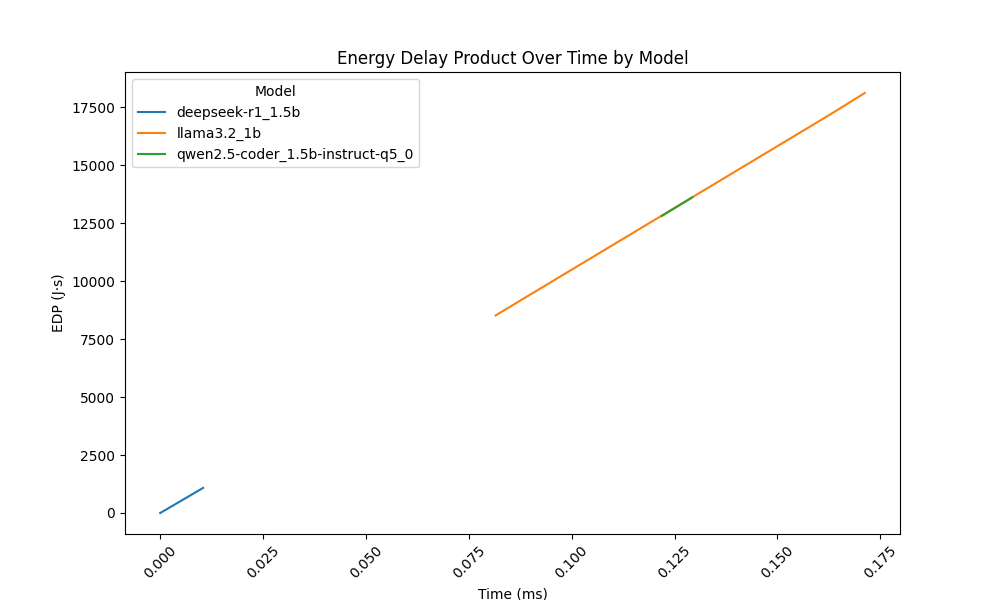
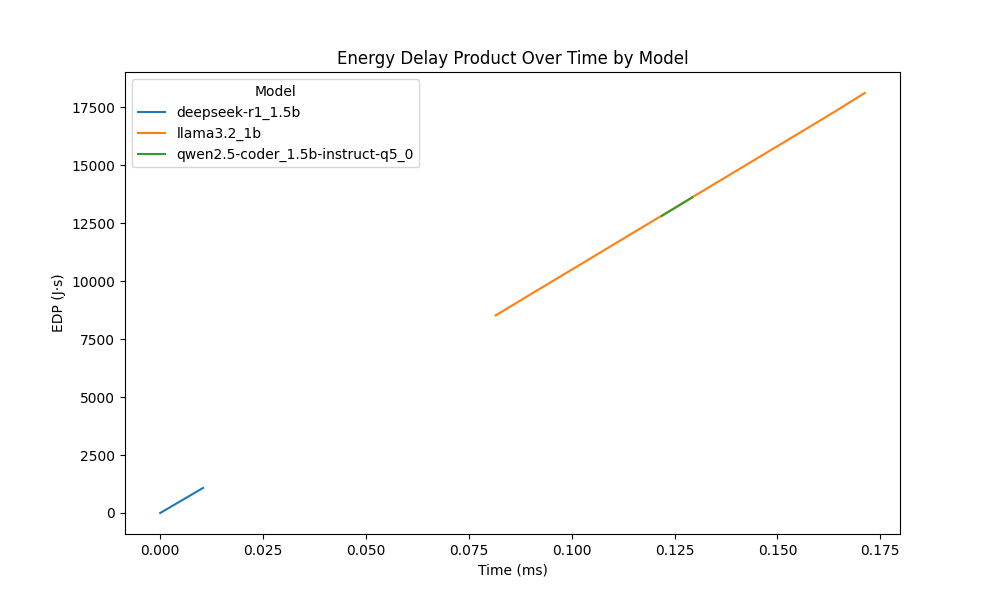
prettified violins

diff --git a/visuals.py b/visuals.py
@@ -42,7 +42,6 @@ sns.lineplot(x='Time', y='CPU_USAGE_MEAN', hue='model', data=df)
 plt.title('Average CPU Usage Over Time by Model')
 plt.xlabel('Time (ms)')
 plt.ylabel('CPU Usage (%)')
-plt.xticks(rotation=45)
 plt.legend(title='Model')
 plt.savefig('images/CPU_Usage_Over_Time_by_Model.png')
 plt.close()
@@ -55,7 +54,6 @@ plt.title('Energy Consumption Over Time by Model')
 plt.xlabel('Time (ms)')
 plt.ylabel('Energy (J)')
 plt.legend(title='Model')
-plt.xticks(rotation=45)
 plt.savefig('images/Energy_Consumption_Over_Time_by_Model.png')
 plt.close()
 
@@ -65,18 +63,16 @@ sns.lineplot(x='Time', y='EDP', hue='model', data=df)
 plt.title('Energy Delay Product Over Time by Model')
 plt.xlabel('Time (ms)')
 plt.ylabel('EDP (J·s)')
-plt.xticks(rotation=45)
 plt.legend(title='Model')
 plt.savefig('images/EDP_Over_Time_by_Model.png')
 plt.close()
 
 # Visualizing EDP distribution by model using violin plots
 plt.figure(figsize=(12, 12))
-sns.violinplot(x='model', y='EDP', data=df, inner='quartile', scale='width')
+sns.violinplot(x='model', y='EDP', data=df, inner='quartile', scale='width', palette='viridis')
 plt.title('Energy Delay Product Distribution by Model')
 plt.xlabel('Model')
 plt.ylabel('EDP (J·s)')
-plt.xticks(rotation=45)
 plt.savefig('images/EDP_Distribution_by_Model.png')
 plt.close()
 
